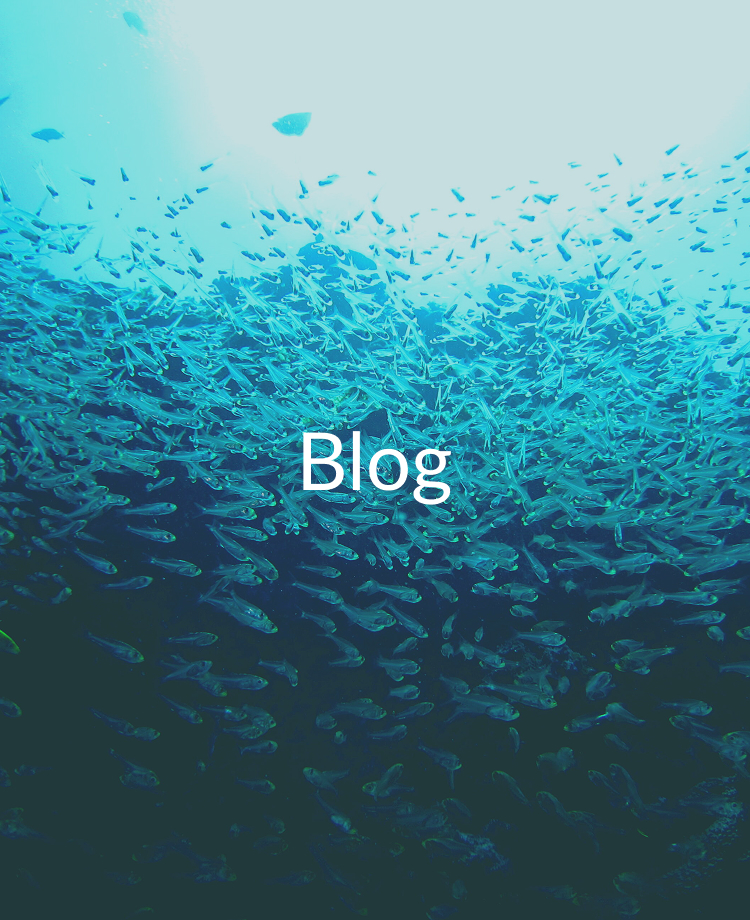
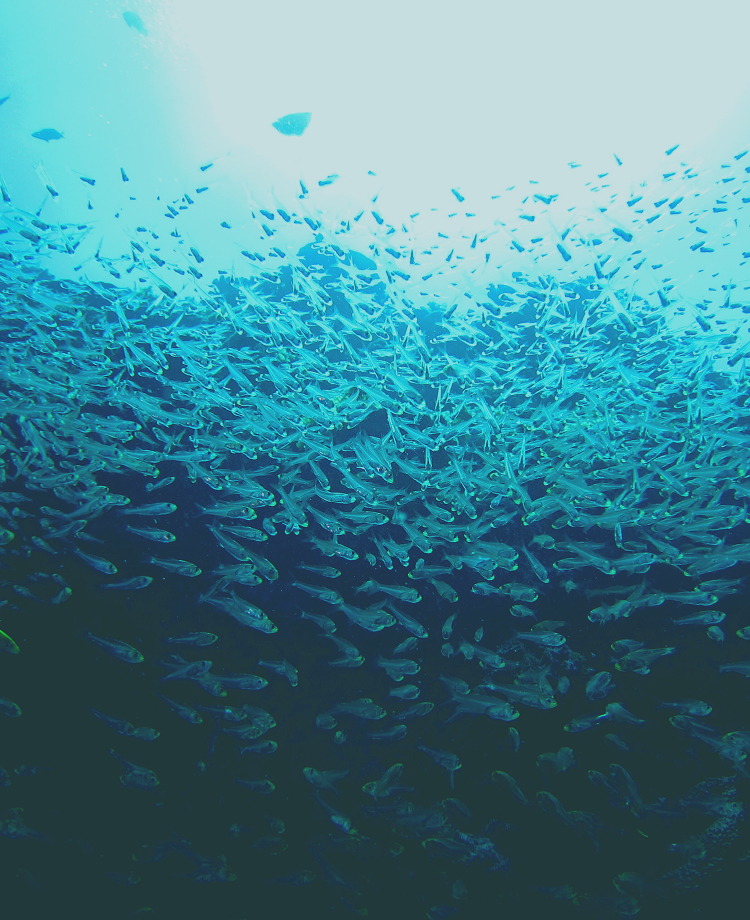
ページタイトル

Changed region(s): [[0.3987, 0.4565, 0.6133, 0.5478]]

diff --git a/src/common.html b/src/common.html
@@ -36,7 +36,152 @@
     <script defer src="./assets/js/script.js"></script>
   </head>
   <body>
+    <header class="header header-layout">
+      <div class="header__inner">
+        <h1 class="header__logo">
+          <a href="#" class="header__logolink">
+            <img src="./assets/images/common/codeups.svg" alt="CodeUps">
+          </a>
+        </h1>
+        <!-- ハンバーガー -->
+        <div class="header__drawer hamburger js-hamburger">
+          <span></span>
+          <span></span>
+          <span></span>
+        </div>
+        <!-- sp-nav -->
+        <nav class="header__sp-nav sp-nav js-sp-nav">
+          <div class="sp-nav__flex">
+            <div class="sp-nav__left">
+              <ul class="sp-nav__items">
+                <li class="sp-nav__item"><a href="#">キャンペーン</a></li>
+                <li class="sp-nav__item"><a href="#">ライセンス取得</a></li>
+                <li class="sp-nav__item"><a href="#">貸切体験ダイビング</a></li>
+                <li class="sp-nav__item"><a href="#">ナイトダイビング</a></li>
+              </ul>
+              <ul class="sp-nav__items">
+                <li class="sp-nav__item"><a href="#">私たちについて</a></li>
+              </ul>
+              <ul class="sp-nav__items">
+                <li class="sp-nav__item"><a href="#">ダイビング情報</a></li>
+                <li class="sp-nav__item"><a href="#">ライセンス講習</a></li>
+                <li class="sp-nav__item"><a href="#">体験ダイビング</a></li>
+                <li class="sp-nav__item"><a href="#">ファンダイビング</a></li>
+              </ul>
+              <ul class="sp-nav__items">
+                <li class="sp-nav__item"><a href="#">ブログ</a></li>
+              </ul>
+            </div>
+            <div class="sp-nav__right">
+              <ul class="sp-nav__items">
+                <li class="sp-nav__item"><a href="#">お客様の声</a></li>
+              </ul>
+              <ul class="sp-nav__items">
+                <li class="sp-nav__item"><a href="#">料金一覧</a></li>
+                <li class="sp-nav__item"><a href="#">ライセンス講習</a></li>
+                <li class="sp-nav__item"><a href="#">体験ダイビング</a></li>
+                <li class="sp-nav__item"><a href="#">ファンダイビング</a></li>
+              </ul>
+              <ul class="sp-nav__items">
+                <li class="sp-nav__item"><a href="#">よくある質問</a></li>
+              </ul>
+              <ul class="sp-nav__items">
+                <li class="sp-nav__item sp-nav__item--multiline">
+                  <a href="#">プライバシー<br>ポリシー</a>
+                </li>
+              </ul>
+              <ul class="sp-nav__items">
+                <li class="sp-nav__item">
+                  <a href="#">利用規約</a>
+                </li>
+              </ul>
+              <ul class="sp-nav__items">
+                <li class="sp-nav__item">
+                  <a href="#">お問い合わせ</a>
+                </li>
+              </ul>
+            </div>
+          </div>
+        </nav>
+        <!-- pc-nav -->
+        <nav class="header__pc-nav pc-nav js-pc-nav">
+          <ul class="pc-nav__items">
+            <li class="pc-nav__item">
+              <a href="#" class="pc-nav__itemlink">
+                <p class="pc-nav__en">Campaign</p>
+                <p class="pc-nav__ja">キャンペーン</p>
+              </a>
+            </li>
+            <li class="pc-nav__item">
+              <a href="#" class="pc-nav__itemlink">
+                <p class="pc-nav__en">About us</p>
+                <p class="pc-nav__ja">私たちについて</p>
+              </a>
+            </li>
+            <li class="pc-nav__item">
+              <a href="#" class="pc-nav__itemlink">
+                <p class="pc-nav__en">Information</p>
+                <p class="pc-nav__ja">ダイビング情報</p>
+              </a>
+            </li>
+            <li class="pc-nav__item">
+              <a href="#" class="pc-nav__itemlink">
+                <p class="pc-nav__en">Blog</p>
+                <p class="pc-nav__ja">ブログ</p>
+              </a>
+            </li>
+            <li class="pc-nav__item">
+              <a href="#" class="pc-nav__itemlink">
+                <p class="pc-nav__en">Voice</p>
+                <p class="pc-nav__ja">お客様の声</p>
+              </a>
+            </li>
+            <li class="pc-nav__item">
+              <a href="#" class="pc-nav__itemlink">
+                <p class="pc-nav__en">Price</p>
+                <p class="pc-nav__ja">料金一覧</p>
+              </a>
+            </li>
+            <li class="pc-nav__item">
+              <a href="#" class="pc-nav__itemlink">
+                <p class="pc-nav__en">FAQ</p>
+                <p class="pc-nav__ja">よくある質問</p>
+              </a>
+            </li>
+            <li class="pc-nav__item">
+              <a href="#" class="pc-nav__itemlink">
+                <p class="pc-nav__en">Contact</p>
+                <p class="pc-nav__ja">お問い合わせ</p>
+              </a>
+            </li>
+          </ul>
+        </nav>
+      </div>
+    </header>
+    
+    <!-- ページタイトル -->
+    <div class="page-header">
+      <h1 class="page-header__title">Blog</h1>
+      <div class="page-header__image">
+        <picture>
+          <source srcset="./assets/images/pages/blog-fv-sp.jpg" media="(max-width: 767px)">
+          <source srcset="./assets/images/pages/blog-fv-pc.jpg" media="(min-width: 768px)">
+          <img src="./assets/images/pages/blog-fv-sp.jpg" alt="">
+        </picture>
+      </div>
+    </div>
+    
+    
     <div class="inner">
+      <!-- パンくずリスト -->
+      <nav class="breadcrumb" aria-label="パンくずリスト">
+        <ol class="breadcrumb__list">
+          <li class="breadcrumb__item"><a href="/">TOP</a></li>
+          <li class="breadcrumb__item"><a href="/home.html/">ブログ一覧</a></li>
+          <li class="breadcrumb__item" aria-current="page">ブログ詳細</li>
+        </ol>
+      </nav>
+
       <!-- カテゴリーボタン -->
       <div class="category-buttons">
         <button class="category-buttons__item category-button is-active" type="button">ALL</button>

diff --git a/src/sass/module/_page-header.scss b/src/sass/module/_page-header.scss
@@ -1,0 +1,31 @@
+@use "global" as *;
+
+.page-header__title{
+  position: absolute;
+  top: calc(206 / 375) * 100vw;
+  left: 50%;
+  transform: translateX(-50%);
+  font-size: rem(40);
+  font-family: "Lato", serif;
+  color: $white;
+  z-index: 100;
+  @include mq("md"){
+    top: rem(274);
+    font-size: rem(80);
+  }
+}
+
+.page-header__image{
+  width: 100%;
+  height: 100%;
+}
+
+.page-header__image picture,
+.page-header__image img{
+  aspect-ratio: 375 / 460;
+  object-fit: cover;
+  @include mq("md"){
+    aspect-ratio: 1440 / 548;
+    height: rem(548);
+  }
+}

diff --git a/src/sass/module/_breadcrumb.scss b/src/sass/module/_breadcrumb.scss
@@ -1,0 +1,26 @@
+@use "global" as *;
+
+.breadcrumb {
+  font-size: rem(14);
+}
+
+.breadcrumb__list {
+  display: flex;
+}
+
+.breadcrumb__item:not(:first-child){
+  position: relative;
+  padding-left: rem(20);
+}
+
+.breadcrumb__item:not(:first-child)::before{
+  content: "";
+  position: absolute;
+  top: 50%;
+  left: rem(7);
+  width: 5.66px;
+  height: 5.66px;
+  border-right: 1px solid currentColor;
+  border-bottom: 1px solid currentColor;
+  transform: translateY(-50%) rotate(-45deg);
+}

diff --git a/src/sass/module/_pc-nav.scss b/src/sass/module/_pc-nav.scss
@@ -13,13 +13,13 @@
 
 .pc-nav__itemlink{
   position: relative;
-height: inherit;
-display: flex;
-flex-direction: column;
-justify-content: center;
-align-items: center;
-gap: rem(4);
-color: $white;
+  height: inherit;
+  display: flex;
+  flex-direction: column;
+  justify-content: center;
+  align-items: center;
+  gap: rem(4);
+  color: $white;
 }
 
 .pc-nav__itemlink::after{
